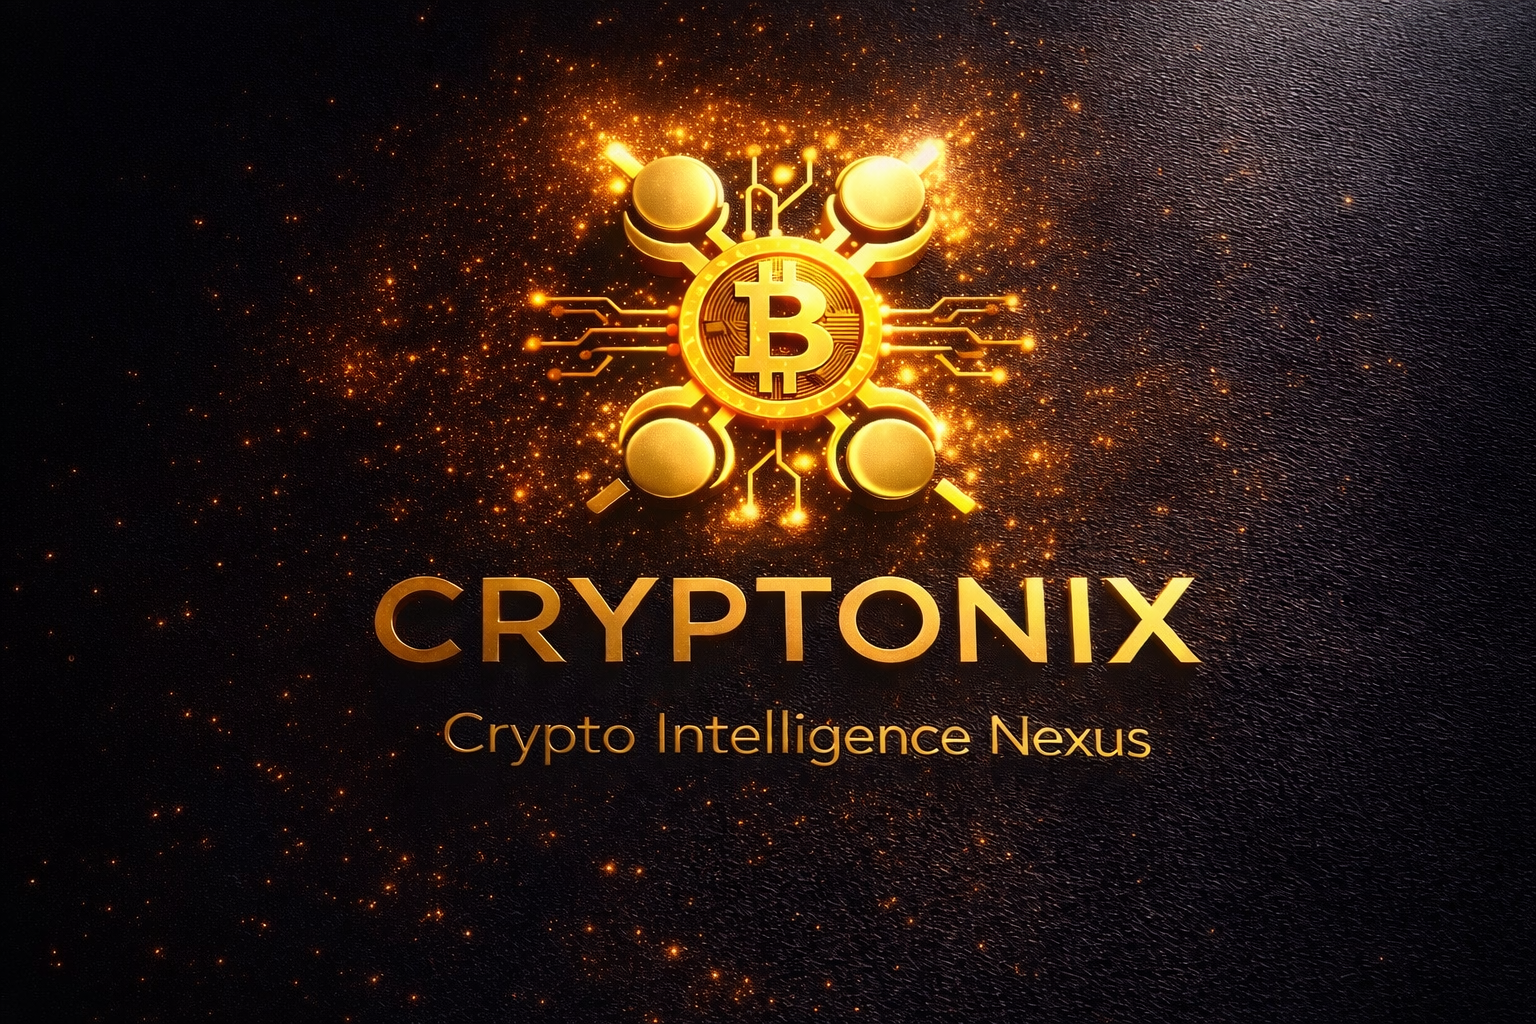
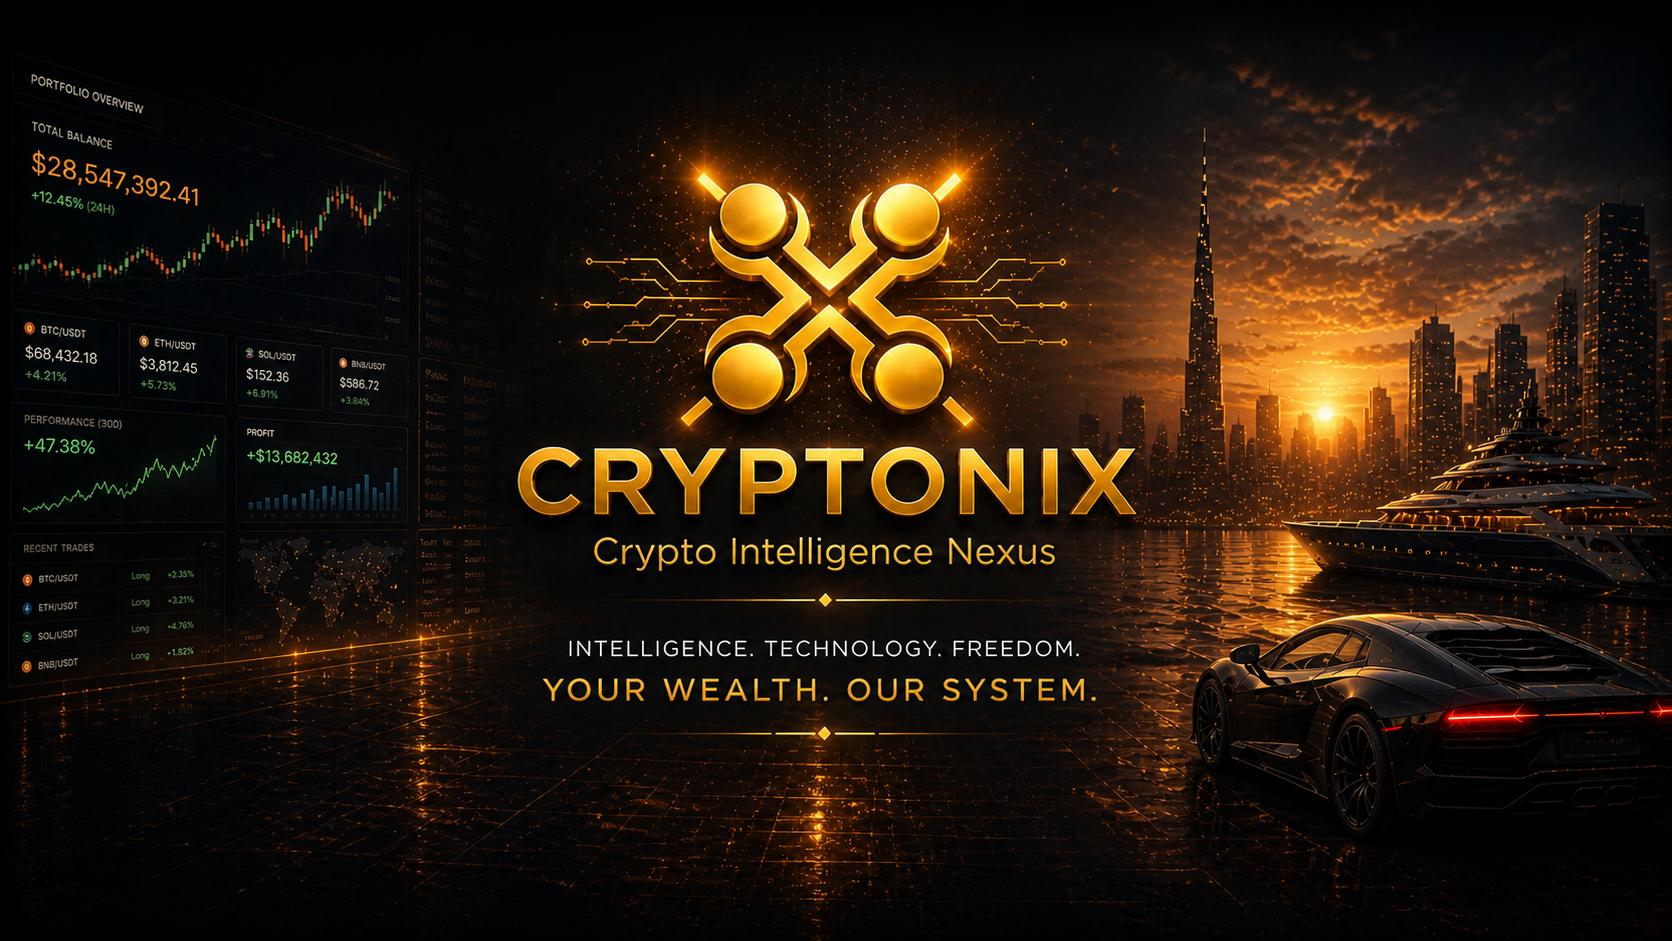
full update

diff --git a/app/login/page.tsx b/app/login/page.tsx
@@ -79,51 +79,60 @@ export default function LoginPage() {
 
       <style jsx>{`
         .container {
-          height: 100vh;
-          width: 100%;
-          background-image: url('/CRYPTONIX.PNG');
-          background-size: cover;
-          background-position: center;
-          position: relative;
-        }
+  position: fixed;   /* фиксируем к экрану */
+  inset: 0;          /* top:0 right:0 bottom:0 left:0 */
+
+  width: 100vw;      /* ширина окна */
+  height: 100vh;     /* высота окна */
+
+  background: url('/CRYPTONIX.PNG') no-repeat center center;
+  background-size: cover;   /* КЛЮЧ — покрывает весь экран */
+
+  z-index: 0;
+}
 
         .overlay {
-          position: absolute;
-          inset: 0;
-          background: rgba(0, 0, 0, 0.6);
-        }
+  position: fixed;
+  inset: 0;
+  background: rgba(0,0,0,0.6);
+  z-index: 1;
+}
 
         .loginBox {
-          position: absolute;
-          top: 40px;
-          right: 40px;
-          width: 220px;
-          background: rgba(15, 15, 15, 0.85);
-          backdrop-filter: blur(12px);
-          padding: 18px;
-          border-radius: 12px;
-          border: 1px solid rgba(255, 255, 255, 0.08);
-          box-shadow: 0 0 25px rgba(0, 0, 0, 0.7);
-          text-align: center;
-          color: white;
-          animation: fadeIn 0.5s ease;
-        }
+  position: absolute;
+  top: 40px;
+  right: 40px;
+  z-index: 2;
+
+  width: 220px;
+  max-width: calc(100% - 40px); 
+
+  background: rgba(0, 0, 0, 0.85);
+  backdrop-filter: blur(12px);
+  padding:18px;
+  border-radius: 12px;
+  border: 1px solid rgba(255, 255, 255, 0.08);
+  box-shadow: 0 0 25px rgba(131, 5, 5, 0.7);
+  text-align: center;
+  color: white;
+  animation: fadeIn 0.5s ease;
+}
 
         .loginBox input {
           width: 100%;
-          padding: 8px;
-          margin-bottom: 10px;
-          border-radius: 6px;
+          padding: 2px;
+          margin-bottom: 4px;
+          border-radius: 5px;
           border: 1px solid rgba(255,255,255,0.1);
           background: rgba(0,0,0,0.6);
           color: white;
-          font-size: 14px;
+          font-size: 12px;
         }
 
         .loginBox button {
           width: 100%;
-          padding: 8px;
-          border-radius: 6px;
+          padding: 2px;
+          border-radius: 66px;
           border: none;
           background: linear-gradient(135deg, #f0b90b, #ffd700);
           font-weight: bold;

diff --git a/app/globals.css b/app/globals.css
@@ -25,9 +25,13 @@
 html, body {
   margin: 0;
   padding: 0;
+  width: 100%;
   height: 100%;
+  overflow-x: hidden;
+}
 
-  background: radial-gradient(circle at 50% 20%, #0a0a0a, #050505 80%);
+* {
+  max-width: 100%;
 }
 
 /* ===== BODY ===== */
@@ -63,6 +67,10 @@ main {
 *::before,
 *::after {
   box-sizing: border-box;
+}
+html, body {
+  background: #000000;
+  color: #ca8484;
 }
 
 /* ===== SMOOTH INTERACTIONS ===== */
@@ -111,7 +119,7 @@ button:active {
 /* ===== TEXT ===== */
 ::selection {
   background: rgba(255, 215, 0, 0.2);
-  color: #fff;
+  color: #fefefe;
 }
 
 /* ===== PERFORMANCE OPTIMIZATION ===== */

diff --git a/app/components/LiveTrading.tsx b/app/components/LiveTrading.tsx
@@ -242,7 +242,7 @@ export default function LiveTrading() {
   }
 
   return (
-    <main className="min-h-screen flex flex-col bg-[#0a0a0a] text-yellow-400 border border-yellow-500/30 rounded-lg p-2 overflow-auto">
+    <main className="min-h-screen w-full flex flex-col bg-[#0a0a0a] text-yellow-400 p-2 overflow-x-hidden">
 
       <Header
         symbol={symbol}
@@ -251,7 +251,7 @@ export default function LiveTrading() {
         btcFutures={btcFutures}
       />
 
-      <div className="flex flex-col lg:flex-row gap-2">
+<div className="flex flex-col lg:flex-row gap-2 w-full overflow-x-hidden">
 
         <div className="flex flex-col flex-1 gap-2">
           <div className="flex flex-col md:flex-row gap-2">
@@ -279,7 +279,7 @@ export default function LiveTrading() {
           </div>
         </div>
 
-        <div className="hidden lg:flex w-[260px] flex-col gap-2">
+        <div className="hidden lg:flex flex-col gap-2 min-w-[260px] max-w-[260px]">
           <TradePanel
             trade={selected ? trade : null}
             selected={selected}

diff --git a/app/components/LogoutButton.tsx b/app/components/LogoutButton.tsx
@@ -12,12 +12,12 @@ export default function LogoutButton() {
         right: "20px",
         padding: "8px 12px",
         fontSize: "12px",
-        background: "rgba(97, 4, 4, 0.8)",
+        background: "rgba(90, 4, 4, 0.8)",
         color: "white",
         border: "none",
-        borderRadius: "6px",
+        borderRadius: "55px",
         cursor: "pointer",
-        zIndex: 9999,
+        zIndex: 1000,
       }}
     >
       Exit

diff --git a/app/components/Chart.tsx b/app/components/Chart.tsx
@@ -240,7 +240,7 @@ export default function Chart(props: any) {
   /* ================= UI ================= */
 
   return (
-    <div ref={containerRef} className="w-full h-full flex flex-col">
+    <div ref={containerRef} className="w-full flex flex-col overflow-hidden">
 
       {/* PRICE */}
       <div ref={priceRef} className="flex-[4] min-h-[200px]" />